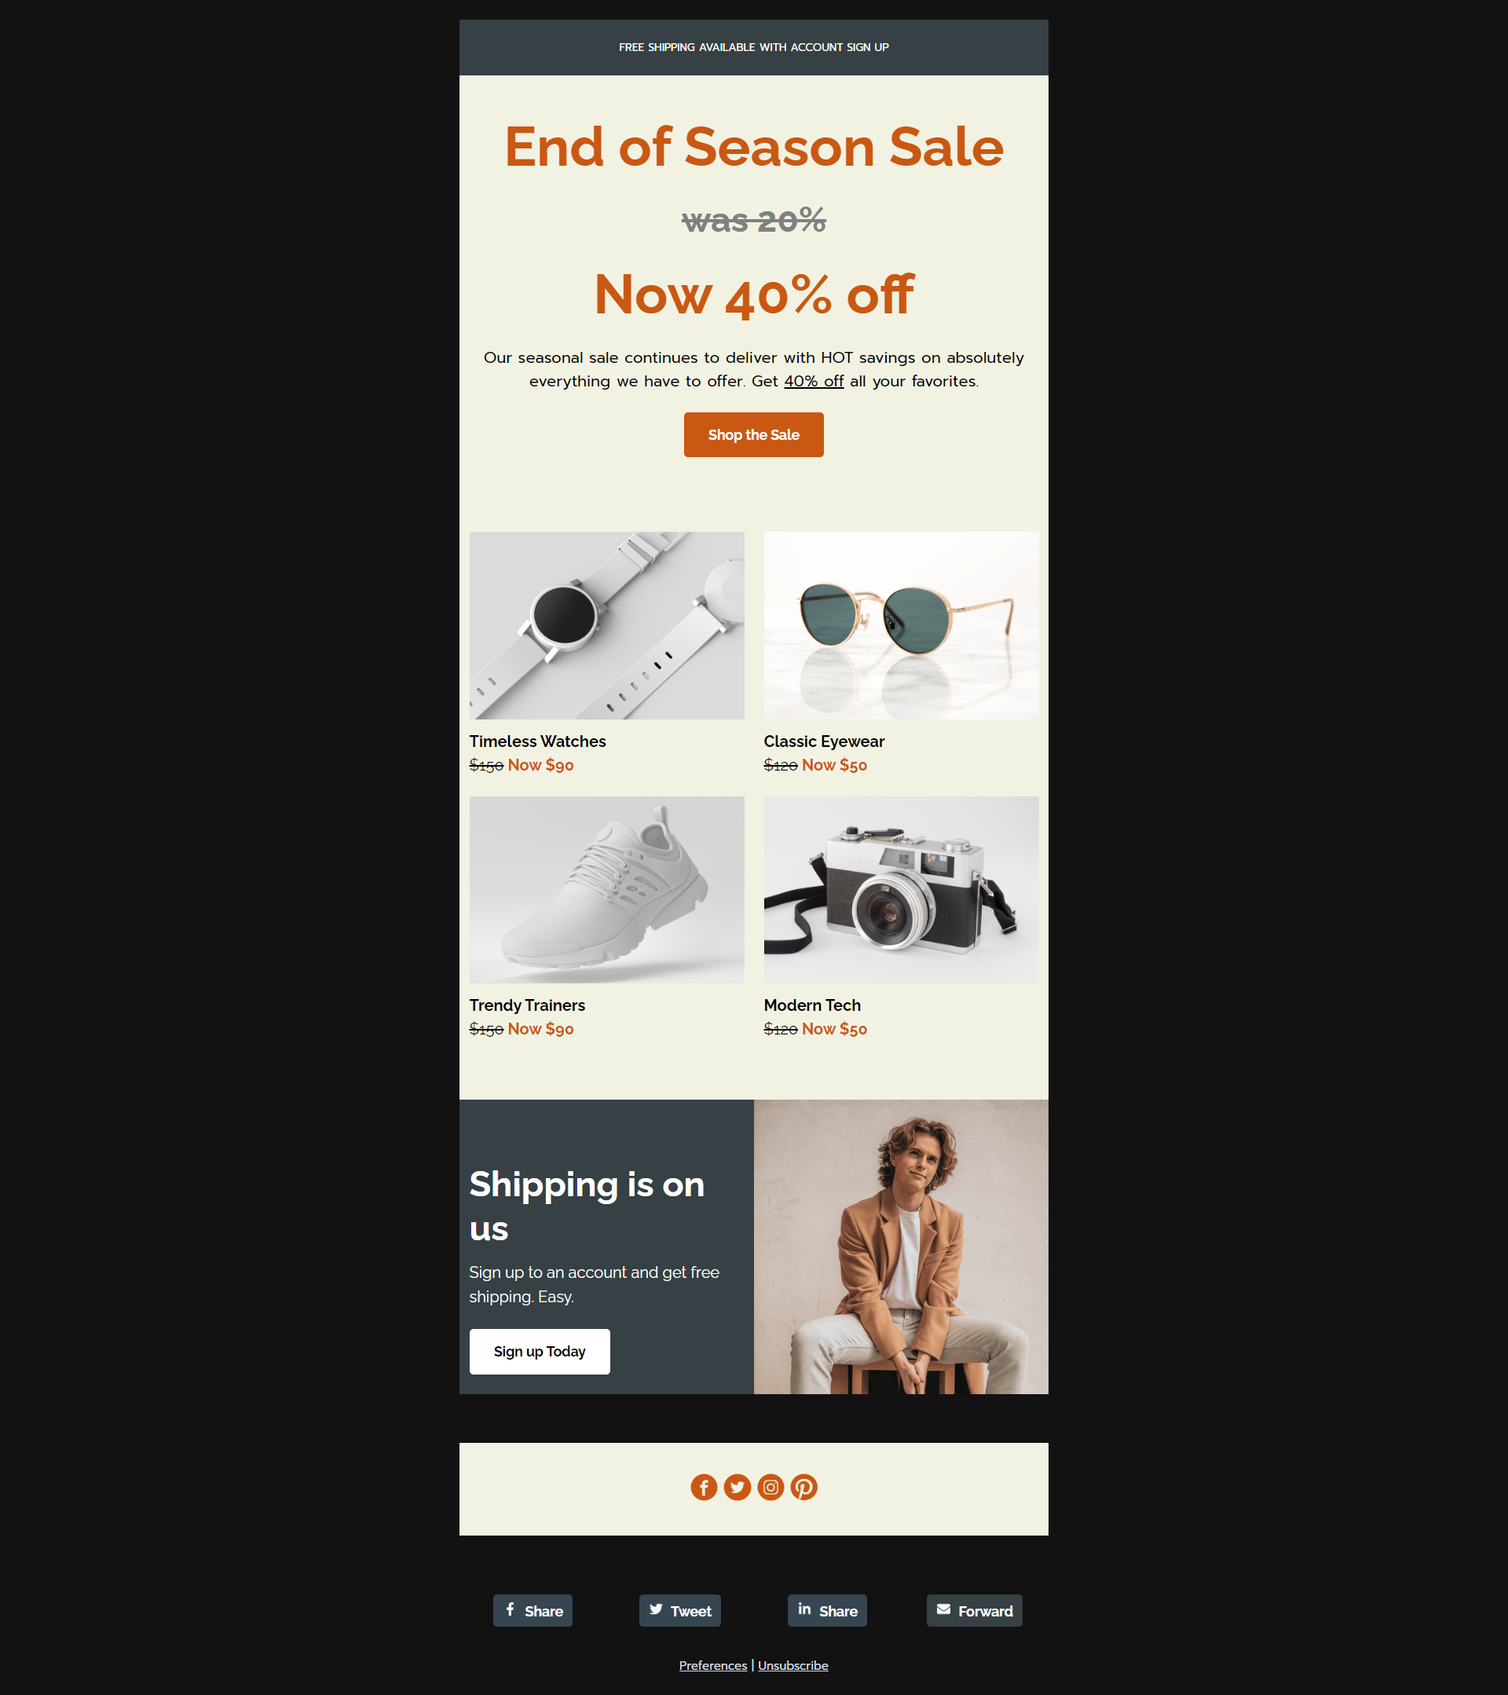
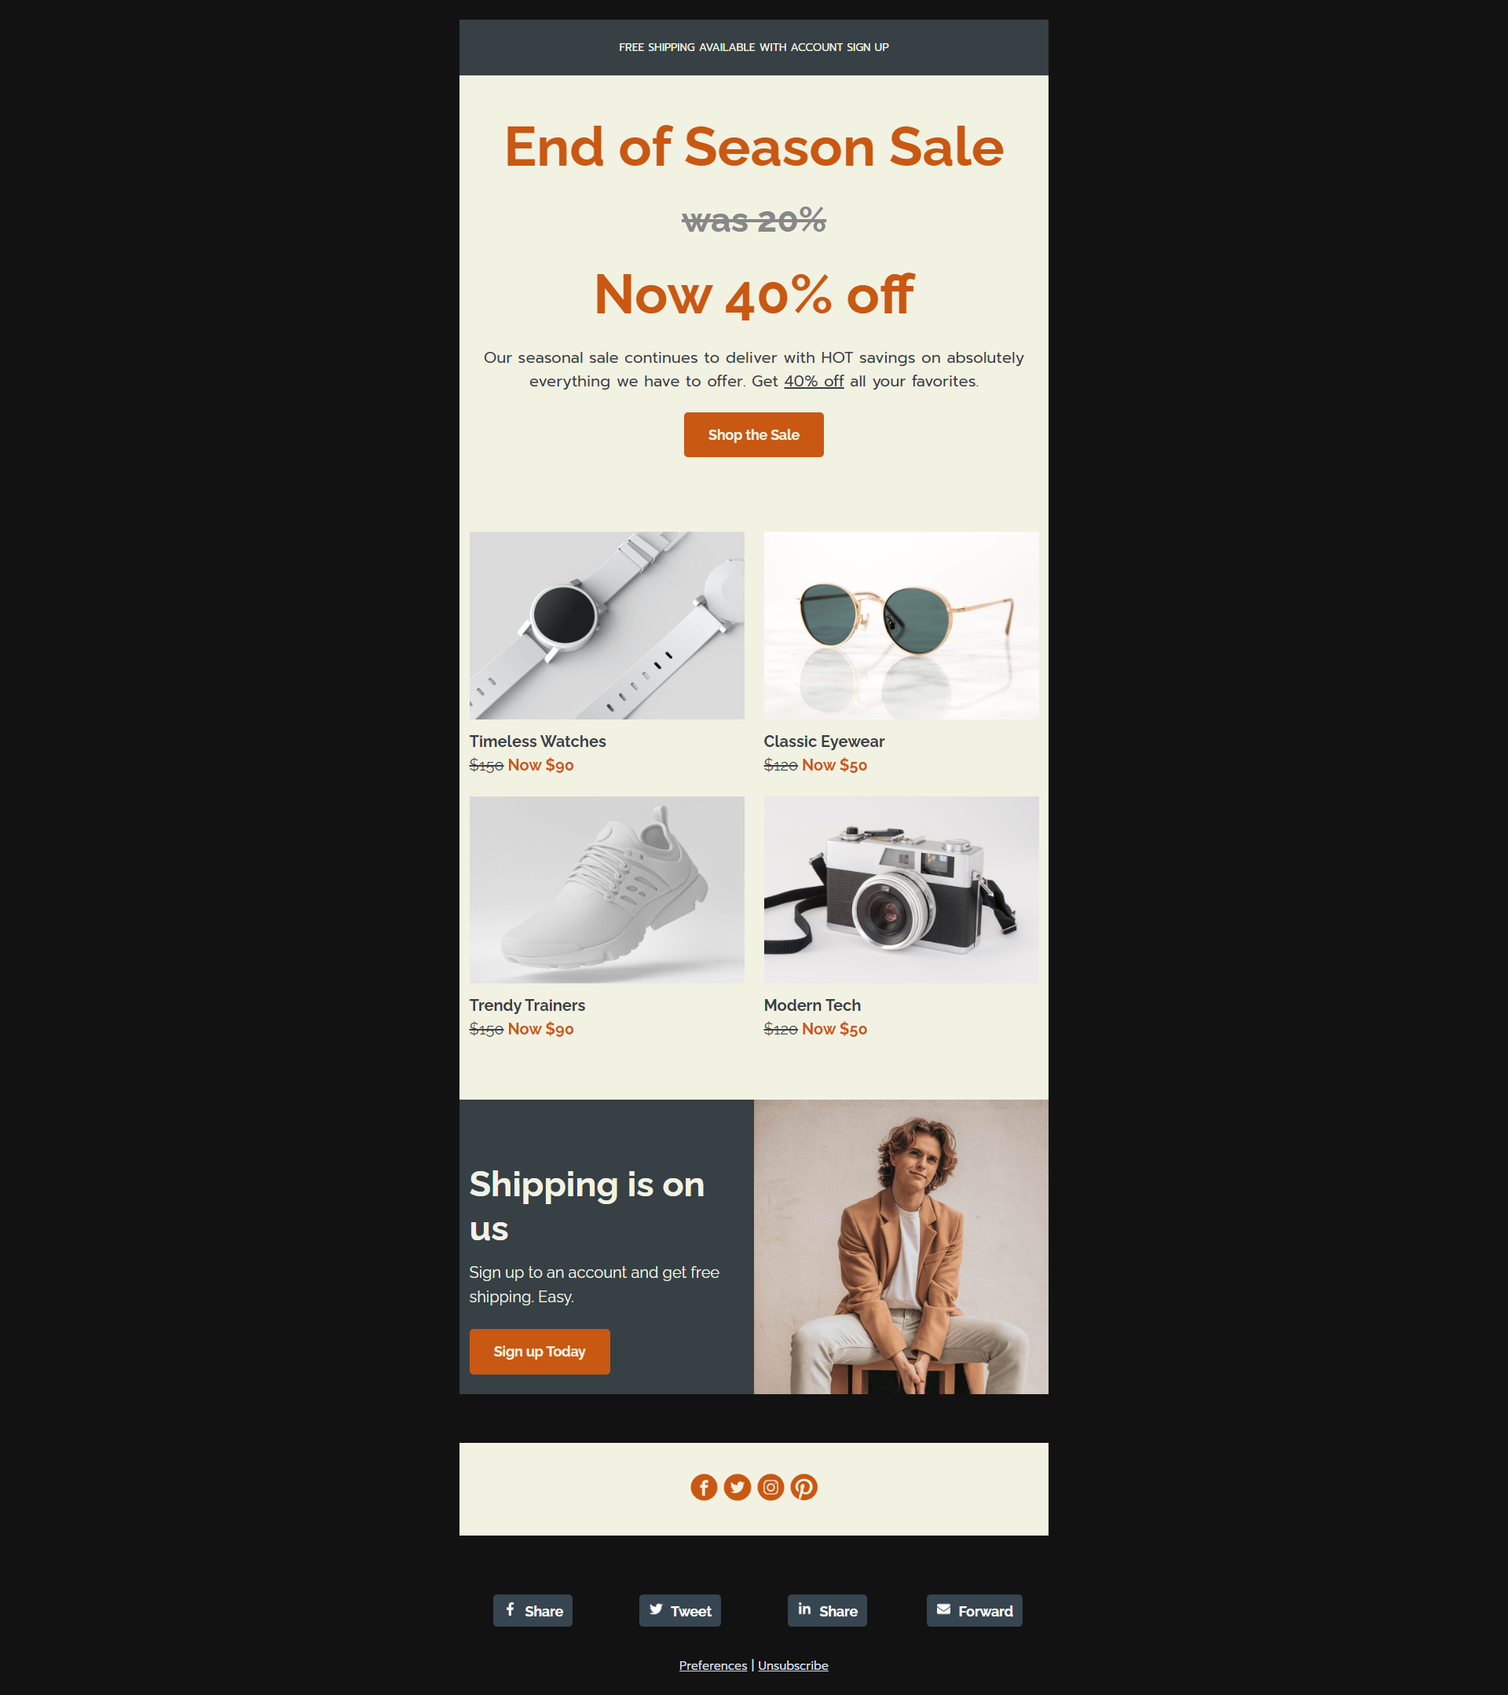
Changed text colors

diff --git a/index.html b/index.html
@@ -58,16 +58,16 @@
             <table  role="presentation" style="width:100%;border:0;border-spacing:0;">
               <tr>
                 <td style="background-color: #364045;font-family: 'Prompt', sans-serif;font-size: 11px;padding: 20px;text-align: center;">
-                  <p style="margin: 0;">FREE SHIPPING AVAILABLE WITH ACCOUNT SIGN UP</p>
+                  <p style="color: #F2F2E3; margin: 0;">FREE SHIPPING AVAILABLE WITH ACCOUNT SIGN UP</p>
                 </td>
               </tr>
               <tr>
                 <td style="background-color: #F2F2E3; padding: 40px 20px 40px 20px; text-align: center;">
                   <h1 style="color: #C95812; font-family: 'Raleway', sans-serif; font-size: 56px; font-weight: bolder; line-height: 65px; margin: 0;">End of Season Sale</h1>
-                  <h2 style="color: #808080; font-family: 'Raleway', sans-serif; font-size: 36px; line-height: 45px; margin: 20px 0 20px 0;"><span style="text-decoration: line-through; text-decoration-color: #808080;">was 20%</span></h2>
+                  <h2 style="color: #878787; font-family: 'Raleway', sans-serif; font-size: 36px; line-height: 45px; margin: 20px 0 20px 0;"><span style="text-decoration: line-through; text-decoration-color: #878787;">was 20%</span></h2>
                   <h1 style="color: #C95812; font-family: 'Raleway', sans-serif; font-size: 56px; font-weight: bolder; line-height: 65px; margin: 0 0 20px 0;">Now 40% off</h1>
-                  <p style="color: #000000;font-family: 'Prompt', sans-serif; font-size: 16px; line-height: 24px; margin: 0 0 20px 0;">Our seasonal sale continues to deliver with HOT savings on absolutely everything we have to offer. Get <span style="text-decoration: underline;">40% off</span> all your favorites.</p>
-                  <p style="font-weight: bold; font-family: 'Raleway', sans-serif; font-size: 14px; margin: 0;"><a href="https://example.com/" style="background: #C95812; text-decoration: none; padding: 15px 25px; color: #fff; border-radius: 4px; display:inline-block; mso-padding-alt:0;text-underline-color:#C95812"><!--[if mso]><i style="letter-spacing: 25px;mso-font-width:-100%;mso-text-raise:30pt" hidden>&nbsp;</i><![endif]--><span style="mso-text-raise:15pt;">Shop the Sale</span><!--[if mso]><i style="letter-spacing: 25px;mso-font-width:-100%" hidden>&nbsp;</i><![endif]-->
+                  <p style="color: #364045;font-family: 'Prompt', sans-serif; font-size: 16px; line-height: 24px; margin: 0 0 20px 0;">Our seasonal sale continues to deliver with HOT savings on absolutely everything we have to offer. Get <span style="text-decoration: underline;">40% off</span> all your favorites.</p>
+                  <p style="font-weight: bold; font-family: 'Raleway', sans-serif; font-size: 14px; margin: 0;"><a href="https://example.com/" style="background: #C95812; text-decoration: none; padding: 15px 25px; color: #F2F2E3; border-radius: 4px; display:inline-block; mso-padding-alt:0;text-underline-color:#C95812"><!--[if mso]><i style="letter-spacing: 25px;mso-font-width:-100%;mso-text-raise:30pt" hidden>&nbsp;</i><![endif]--><span style="mso-text-raise:15pt;">Shop the Sale</span><!--[if mso]><i style="letter-spacing: 25px;mso-font-width:-100%" hidden>&nbsp;</i><![endif]-->
                   </a></p>
                 </td>
               </tr>
@@ -84,10 +84,10 @@
               <div class="column" style="width: 100%; max-width:300px; display: inline-block; vertical-align: middle;">
                 <div style="padding: 10px;">
                   <p style="font-family: 'Raleway', sans-serif; font-size: 14px; line-height: 18px; margin: 0;">
-                  <img src="images/MaskGroup13.png" alt="Timeless Watches" width="280" style="display: block; height: auto; max-width: 100%; width: 280px;">
+                  <img src="https://i.ibb.co/1vJQCBP/Mask-Group13.png" alt="Timeless Watches" width="280" style="display: block; height: auto; max-width: 100%; width: 280px;">
                   </p>
-                  <p style="font-family: 'Raleway', sans-serif; font-size: 16px; font-weight: bold; line-height: 24px; margin: 10px 0 0 0; text-align: left;">Timeless Watches</p>
-                  <p style="color: #C95812; font-family: 'Raleway', sans-serif; font-size: 16px; font-weight: bold; line-height: 24px; margin: 0; text-align: left;"><span style="color: #000000; font-weight: lighter; text-decoration: line-through;">$150</span> Now $90</p>
+                  <p style="color: #364045; font-family: 'Raleway', sans-serif; font-size: 16px; font-weight: bold; line-height: 24px; margin: 10px 0 0 0; text-align: left;">Timeless Watches</p>
+                  <p style="color: #C95812; font-family: 'Raleway', sans-serif; font-size: 16px; font-weight: bold; line-height: 24px; margin: 0; text-align: left;"><span style="color: #364045; font-weight: lighter; text-decoration: line-through;">$150</span> Now $90</p>
                 </div>
               </div>
               <!--[if mso]>
@@ -97,10 +97,10 @@
               <div class="column" style="width:100%; max-width: 300px; display: inline-block; vertical-align: middle;">
                 <div style="padding: 10px;">
                   <p style="font-family: 'Raleway', sans-serif; font-size: 14px; line-height: 18px; margin: 0;">
-                  <img src="images/MaskGroup14.png" alt="Classic Eyewear" width="280" style="display: block; height: auto; max-width: 100%; width: 280px;">
+                  <img src="https://i.ibb.co/WW9RhRk/Mask-Group14.png" alt="Classic Eyewear" width="280" style="display: block; height: auto; max-width: 100%; width: 280px;">
                   </p>
-                  <p style="font-family: 'Raleway', sans-serif; font-size: 16px; font-weight: bold; line-height: 24px; margin: 10px 0 0 0; text-align: left;">Classic Eyewear</p>
-                  <p style="color: #C95812; font-family: 'Raleway', sans-serif; font-size: 16px; font-weight: bold; line-height: 24px; margin: 0; text-align: left;"><span style="color: #000000; font-weight: lighter; text-decoration: line-through;">$120</span> Now $50</p>
+                  <p style="color: #364045; font-family: 'Raleway', sans-serif; font-size: 16px; font-weight: bold; line-height: 24px; margin: 10px 0 0 0; text-align: left;">Classic Eyewear</p>
+                  <p style="color: #C95812; font-family: 'Raleway', sans-serif; font-size: 16px; font-weight: bold; line-height: 24px; margin: 0; text-align: left;"><span style="color: #364045; font-weight: lighter; text-decoration: line-through;">$120</span> Now $50</p>
                 </div>
               </div>
               <!--[if mso]>
@@ -112,10 +112,10 @@
               <div class="column" style="width:100%; max-width: 300px; display: inline-block; vertical-align: middle;">
                 <div style="padding: 10px;">
                   <p style="font-family: 'Raleway', sans-serif; font-size: 14px; line-height: 18px; margin: 0;">
-                  <img src="images/MaskGroup15.png" alt="Trendy Trainers" width="280" style="display: block; height: auto; max-width: 100%; width: 280px;">
+                  <img src="https://i.ibb.co/NT2g0j4/Mask-Group15.png" alt="Trendy Trainers" width="280" style="display: block; height: auto; max-width: 100%; width: 280px;">
                   </p>
-                  <p style="font-family: 'Raleway', sans-serif; font-size: 16px; font-weight: bold; line-height: 24px; margin: 10px 0 0 0; text-align: left;">Trendy Trainers</p>
-                  <p style="color: #C95812; font-family: 'Raleway', sans-serif; font-size: 16px; font-weight: bold; line-height: 24px; margin: 0; text-align: left;"><span style="color: #000000; font-weight: lighter; text-decoration: line-through;">$150</span> Now $90</p>
+                  <p style="color: #364045; font-family: 'Raleway', sans-serif; font-size: 16px; font-weight: bold; line-height: 24px; margin: 10px 0 0 0; text-align: left;">Trendy Trainers</p>
+                  <p style="color: #C95812; font-family: 'Raleway', sans-serif; font-size: 16px; font-weight: bold; line-height: 24px; margin: 0; text-align: left;"><span style="color: #364045; font-weight: lighter; text-decoration: line-through;">$150</span> Now $90</p>
                 </div>
               </div>
               <!--[if mso]>
@@ -125,10 +125,10 @@
               <div class="column" style="width:100%; max-width: 300px; display: inline-block; vertical-align: middle;">
                 <div style="padding: 10px;">
                   <p style="font-family: 'Raleway', sans-serif; font-size: 14px; line-height: 18px; margin: 0;">
-                  <img src="images/MaskGroup16.png" alt="Modern Tech" width="280" style="display: block; height: auto; max-width: 100%; width: 280px;">
+                  <img src="https://i.ibb.co/K9627KP/Mask-Group16.png" alt="Modern Tech" width="280" style="display: block; height: auto; max-width: 100%; width: 280px;">
                   </p>
-                  <p style="font-family: 'Raleway', sans-serif; font-size: 16px; font-weight: bold; line-height: 24px; margin: 10px 0 0 0; text-align: left;">Modern Tech</p>
-                  <p style="color: #C95812; font-family: 'Raleway', sans-serif; font-size: 16px; font-weight: bold; line-height: 24px; margin: 0; text-align: left;"><span style="color: #000000; font-weight: lighter; text-decoration: line-through;">$120</span> Now $50</p>
+                  <p style="color: #364045; font-family: 'Raleway', sans-serif; font-size: 16px; font-weight: bold; line-height: 24px; margin: 10px 0 0 0; text-align: left;">Modern Tech</p>
+                  <p style="color: #C95812; font-family: 'Raleway', sans-serif; font-size: 16px; font-weight: bold; line-height: 24px; margin: 0; text-align: left;"><span style="color: #364045; font-weight: lighter; text-decoration: line-through;">$120</span> Now $50</p>
                 </div>
               </div>
               <!--[if mso]>
@@ -148,9 +148,9 @@
             <![endif]-->
             <div class="column" style="width:100%; max-width: 300px; display: inline-block; vertical-align: middle;">
               <div style="font-family: 'Raleway', sans-serif; padding: 10px; text-align: left;">
-                <p style="font-size: 36px; font-weight: bolder; line-height: 45px; margin: 54px 0 10px 0;">Shipping is on us</p>
-                <p style="font-size: 16px; line-height: 25px; margin: 0 0 20px 0;">Sign up to an account and get free shipping. Easy.</p>
-                <p style="font-weight: bold; font-family: 'Raleway', sans-serif; font-size: 14px; margin: 0 0 10px 0;"><a href="https://example.com/" style="background: #FFFFFF; text-decoration: none; padding: 15px 25px; color: #000000; border-radius: 4px; display:inline-block; mso-padding-alt:0;text-underline-color:#FFFFFF"><!--[if mso]><i style="letter-spacing: 25px;mso-font-width:-100%;mso-text-raise:30pt" hidden>&nbsp;</i><![endif]--><span style="mso-text-raise:15pt;">Sign up Today</span><!--[if mso]><i style="letter-spacing: 25px;mso-font-width:-100%" hidden>&nbsp;</i><![endif]-->
+                <p style="color: #F2F2E3; font-size: 36px; font-weight: bolder; line-height: 45px; margin: 54px 0 10px 0;">Shipping is on us</p>
+                <p style="color: #F2F2E3; font-size: 16px; line-height: 25px; margin: 0 0 20px 0;">Sign up to an account and get free shipping. Easy.</p>
+                <p style="font-weight: bold; font-family: 'Raleway', sans-serif; font-size: 14px; margin: 0 0 10px 0;"><a href="https://example.com/" style="background: #C95812; text-decoration: none; padding: 15px 25px; color: #F2F2E3; border-radius: 4px; display:inline-block; mso-padding-alt:0;text-underline-color:#FFFFFF"><!--[if mso]><i style="letter-spacing: 25px;mso-font-width:-100%;mso-text-raise:30pt" hidden>&nbsp;</i><![endif]--><span style="mso-text-raise:15pt;">Sign up Today</span><!--[if mso]><i style="letter-spacing: 25px;mso-font-width:-100%" hidden>&nbsp;</i><![endif]-->
                 </a></p>
               </div>
             </div>
@@ -160,7 +160,7 @@
             <![endif]-->
             <div class="column" style="width:100%; max-width: 300px; display: inline-block; vertical-align: middle;">
               <p style="font-family: 'Raleway', sans-serif; font-size: 14px; line-height: 18px; margin: 0;">
-              <img src="images/MaskGroup12.png" alt="" width="300" style="display: block; height: auto; max-width: 100%; width: 300px;">
+              <img src="https://i.ibb.co/NCF4hW3/Mask-Group12.png" alt="" width="300" style="display: block; height: auto; max-width: 100%; width: 300px;">
               </p>
             </div>
             <!--[if mso]>
@@ -176,13 +176,13 @@
               <tr>
                 <td style="background-color: #F2F2E3; padding: 30px; text-align: center;">
                   <p style="margin: 0;">
-                  <a href="http://www.facebook.com/" style="text-decoration:none;"><img src="images/facebook-round-icon.png" width="30" height="30" alt="f" 
+                  <a href="http://www.facebook.com/" style="text-decoration:none;"><img src="https://i.ibb.co/B6gzN3T/facebook-round-icon.png" width="30" height="30" alt="f" 
                   style="display:inline-block;"></a> 
-                  <a href="https://twitter.com/?lang=en" style="text-decoration:none;"><img src="images/twitter-round-icon.png" width="30" height="30" alt="t" 
+                  <a href="https://twitter.com/?lang=en" style="text-decoration:none;"><img src="https://i.ibb.co/1ZNgWSk/twitter-round-icon.png" width="30" height="30" alt="t" 
                   style="display:inline-block;"></a>
-                  <a href="https://www.instagram.com/?hl=en" style="text-decoration:none;"><img src="images/instagram-round-icon.png" width="30" height="30" alt="i" 
+                  <a href="https://www.instagram.com/?hl=en" style="text-decoration:none;"><img src="https://i.ibb.co/GccjwWx/instagram-round-icon.png" width="30" height="30" alt="i" 
                     style="display:inline-block;"></a>
-                  <a href="https://www.pinterest.com/" style="text-decoration:none;"><img src="images/pinterest-round-icon.png" width="30" height="30" alt="p" 
+                  <a href="https://www.pinterest.com/" style="text-decoration:none;"><img src="https://i.ibb.co/6H6HDfY/pinterest-round-icon.png" width="30" height="30" alt="p" 
                       style="display:inline-block;"></a>
                   </p>
                 </td>
@@ -201,7 +201,7 @@
               <div style="padding: 10px;">
                 <p style="font-weight: bold; font-family: 'Raleway', sans-serif; font-size: 14px; margin: 0;">
                 <a href="https://www.facebook.com/login/" style="background: #36454F; text-decoration: none; padding: 8px 10px; color: #FFFFFF; border-radius: 4px; display:inline-block; mso-padding-alt:0;text-underline-color:#C95812">
-                <img src="images/facebook-f-brands.png" style="margin-right: 5px;" width="14" height="14" alt=""><!--[if mso]><i style="letter-spacing: 25px;mso-font-width:-100%;mso-text-raise:30pt" hidden>&nbsp;</i><![endif]-->
+                <img src="https://i.ibb.co/yR7jgLN/facebook-f-brands.png" style="margin-right: 5px;" width="14" height="14" alt=""><!--[if mso]><i style="letter-spacing: 25px;mso-font-width:-100%;mso-text-raise:30pt" hidden>&nbsp;</i><![endif]-->
                 <span style="mso-text-raise:15pt;"> Share</span><!--[if mso]><i style="letter-spacing: 25px;mso-font-width:-100%" hidden>&nbsp;</i><![endif]-->
                 </a>
                 </p>
@@ -215,7 +215,7 @@
               <div style="padding: 10px;">
                 <p style="font-weight: bold; font-family: 'Raleway', sans-serif; font-size: 14px; margin: 0;">
                 <a href="https://twitter.com/i/flow/login" style="background: #36454F; text-decoration: none; padding: 8px 10px; color: #FFFFFF; border-radius: 4px; display:inline-block; mso-padding-alt:0;text-underline-color:#C95812">
-                <img src="images/twitter-brands.png" style="margin-right: 5px;" width="14" height="14" alt=""><!--[if mso]><i style="letter-spacing: 25px;mso-font-width:-100%;mso-text-raise:30pt" hidden>&nbsp;</i><![endif]-->
+                <img src="https://i.ibb.co/XtQGb51/twitter-brands.png" style="margin-right: 5px;" width="14" height="14" alt=""><!--[if mso]><i style="letter-spacing: 25px;mso-font-width:-100%;mso-text-raise:30pt" hidden>&nbsp;</i><![endif]-->
                 <span style="mso-text-raise:15pt;"> Tweet</span><!--[if mso]><i style="letter-spacing: 25px;mso-font-width:-100%" hidden>&nbsp;</i><![endif]-->
                 </a>
                 </p>
@@ -229,7 +229,7 @@
               <div style="padding: 10px;">
                 <p style="font-weight: bold; font-family: 'Raleway', sans-serif; font-size: 14px; margin: 0;">
                 <a href="https://www.linkedin.com/login" style="background: #36454F; text-decoration: none; padding: 8px 10px; color: #FFFFFF; border-radius: 4px; display:inline-block; mso-padding-alt:0;text-underline-color:#C95812">
-                <img src="images/linkedin-in-brands.png" style="margin-right: 5px;" width="14" height="14" alt=""><!--[if mso]><i style="letter-spacing: 25px;mso-font-width:-100%;mso-text-raise:30pt" hidden>&nbsp;</i><![endif]-->
+                <img src="https://i.ibb.co/S099KLK/linkedin-in-brands.png" style="margin-right: 5px;" width="14" height="14" alt=""><!--[if mso]><i style="letter-spacing: 25px;mso-font-width:-100%;mso-text-raise:30pt" hidden>&nbsp;</i><![endif]-->
                 <span style="mso-text-raise:15pt;">Share</span><!--[if mso]><i style="letter-spacing: 25px;mso-font-width:-100%" hidden>&nbsp;</i><![endif]-->
                 </a>
                 </p>
@@ -242,8 +242,8 @@
             <div class="column" style="width:100%; max-width: 150px; display: inline-block; vertical-align: middle;">
               <div style="padding: 10px;">
                 <p style="font-weight: bold; font-family: 'Raleway', sans-serif; font-size: 14px; margin: 0;">
-                <a href="https://example.com/" style="background: #364045; text-decoration: none; padding: 8px 10px; color: #FFFFFF; border-radius: 4px; display:inline-block; mso-padding-alt:0;text-underline-color:#C95812">
-                <img src="images/envelope-solid.png" style="margin-right: 5px;" width="14" height="14" alt=""><!--[if mso]><i style="letter-spacing: 25px;mso-font-width:-100%;mso-text-raise:30pt" hidden>&nbsp;</i><![endif]-->
+                <a href="https://example.com/" style="background: #36454F; text-decoration: none; padding: 8px 10px; color: #FFFFFF; border-radius: 4px; display:inline-block; mso-padding-alt:0;text-underline-color:#C95812">
+                <img src="https://i.ibb.co/2PHq3g1/envelope-solid.png" style="margin-right: 5px;" width="14" height="14" alt=""><!--[if mso]><i style="letter-spacing: 25px;mso-font-width:-100%;mso-text-raise:30pt" hidden>&nbsp;</i><![endif]-->
                 <span style="mso-text-raise:15pt;">Forward</span><!--[if mso]><i style="letter-spacing: 25px;mso-font-width:-100%" hidden>&nbsp;</i><![endif]-->
                 </a>
                 </p>
